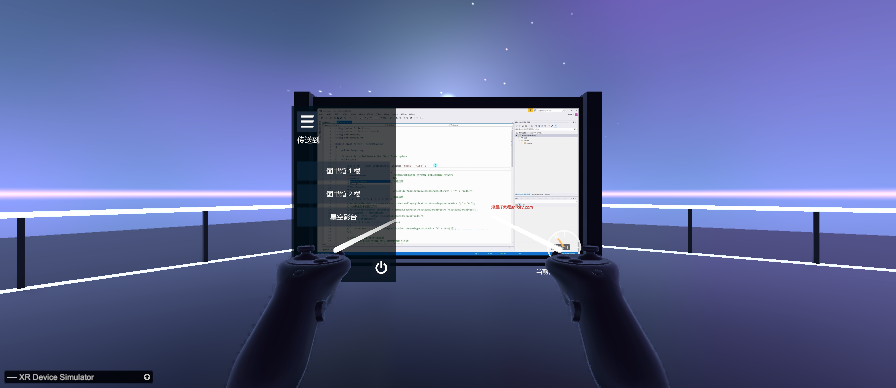
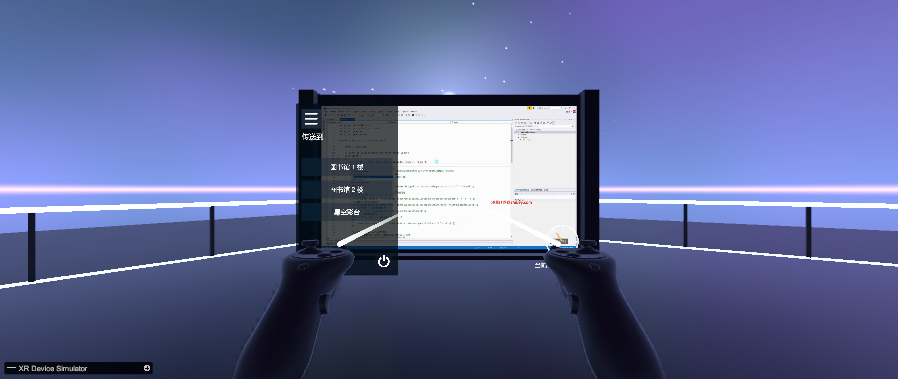
v7.34: 点击板换到专属层 3 并关闭与 Default 的碰撞(修空气墙),补进射线遮罩;冒烟新增「点击板能开书」44 项全通过

diff --git a/Assets/Scripts/LibraryShelfClick.cs b/Assets/Scripts/LibraryShelfClick.cs
@@ -27,6 +27,10 @@ public class LibraryShelfClick : MonoBehaviour
     const float PlateDepth = 0.04f;     // 板厚
     const float OutwardGap = 0.02f;     // 板与书面的间隙
     const string PlateName = "ClickPlate";
+    /// <summary>点击板专用物理层。用户 2026-09-28 反馈"有空气墙挡路" —— 板是不可见的**实体碰撞体**,
+    /// 人物的 CharacterController 会撞上它。放到单独一层并**关掉它与 Default(人物所在层)的碰撞**,
+    /// 人物就能自由穿过;射线是"按遮罩打"、不吃碰撞矩阵,所以照样打得到。</summary>
+    const int PlateLayer = 3;
 
     /// <summary>每本书的"朝外方向"(由行质心算得)。冒烟测试要按**真实过道方向**验可达性,
     /// 而不是沿书自己的 forward —— 实测这两者不重合,照 forward 测会误报"被挡住"。</summary>
@@ -93,6 +97,18 @@ public class LibraryShelfClick : MonoBehaviour
     {
         var books = FindObjectsOfType<LibraryBook>(true);
         Outward.Clear(); Covered.Clear();
+
+        // 空气墙的两道处理:① 板放在专属层;② 关掉它与默认层的碰撞(人物就不会被挡)
+        Physics.IgnoreLayerCollision(PlateLayer, 0, true);
+        // 射线遮罩默认只含 Default/UI/31,要把新层加进去,否则射线打不到板
+        int patched = 0;
+        foreach (var ray in FindObjectsOfType<XRRayInteractor>(true))
+        {
+            // 传送射线不动:它的遮罩/交互层是 31,加了新层就会"隔着书架也能传送到板子上/被板子挡住传送"
+            if (ray.gameObject.name.ToLower().Contains("teleport")) continue;
+            if ((ray.raycastMask & (1 << PlateLayer)) == 0) { ray.raycastMask |= (1 << PlateLayer); patched++; }
+        }
+        Debug.Log("[ShelfClick] 点击板层=" + PlateLayer + ",已关闭与 Default 的碰撞;补进射线遮罩的交互器 " + patched + " 个");
         // 按父节点分行
         var rows = new Dictionary<Transform, List<LibraryBook>>();
         foreach (var b in books)
@@ -135,7 +151,7 @@ public class LibraryShelfClick : MonoBehaviour
             foreach (var s in sides)
             {
                 var plate = new GameObject(PlateName);
-                plate.layer = row[0].gameObject.layer;
+                plate.layer = PlateLayer;
                 plate.transform.SetParent(parent, true);
                 plate.transform.SetPositionAndRotation(center + s.dir * (s.ext + 0.05f),
                     Quaternion.LookRotation(s.dir, Vector3.up));

diff --git a/Assets/Scripts/VRLibrarySmoke.cs b/Assets/Scripts/VRLibrarySmoke.cs
@@ -290,6 +290,25 @@ public class VRLibrarySmoke : MonoBehaviour
         Check("射线能打到书(书架不挡)", sampled > 0 && reachable == sampled,
             "全场 " + scanned + " 本,抽样 " + sampled + " 本 → 可点中 " + reachable + " 本(精确命中本身 " + precise + " 本)"
             + (blockers.Count > 0 ? " · 反例:" + string.Join(" | ", blockers) : " · 全通"));
+
+        // 用户真正的那一环:**选中点击板 → 会不会开书**(2026-09-28 用户报"还是点不开")
+        var plate = FindObjectOfType<LibraryShelfClick.Plate>();
+        bool plateOpened = false; string plateWhy;
+        if (plate == null) plateWhy = "场上没有点击板(LibraryShelfClick 没生效?)";
+        else if (mgr == null || ray == null) plateWhy = "缺少 InteractionManager 或射线";
+        else
+        {
+            var pi = plate.GetComponent<UnityEngine.XR.Interaction.Toolkit.XRBaseInteractable>();
+            r.Close();
+            bool can = pi != null && ray.CanSelect(pi);
+            if (pi != null) mgr.SelectEnter(ray, pi);
+            plateOpened = r.panelRoot.activeSelf;
+            if (pi != null) mgr.SelectExit(ray, pi);
+            r.Close();
+            plateWhy = "板=" + plate.name + " 层=" + plate.gameObject.layer + " 可选中=" + can
+                + " 行内书=" + (plate.row == null ? 0 : plate.row.Count) + " → 面板=" + plateOpened;
+        }
+        Check("点击板能开书(用户报点不开的那一环)", plateOpened, plateWhy);
     }
 
     IEnumerator TestSearchAndTeleport()
